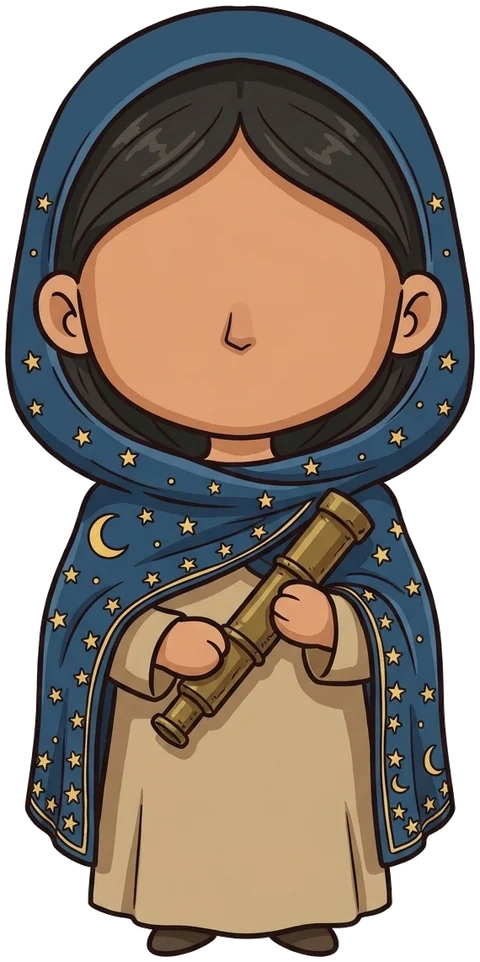
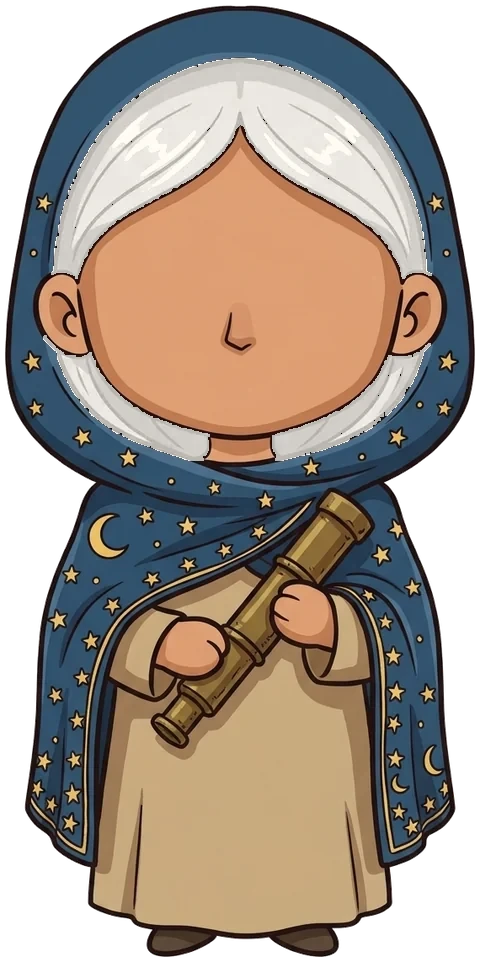
Four more paid wizards (קוסם הלילה, קוסמת היער, the little wizard pair), the magician redrawn as a desert wizard, the astronomer's hair chosen by the person (white by default); staff glow and spark moves; her night glow without the neck seam

Changed region(s): [[0.0938, 0.0624, 0.9062, 0.3119], [0.5625, 0.343, 0.9062, 0.499], [0.0938, 0.343, 0.4375, 0.499]]

diff --git a/public/assets/figure2d.js b/public/assets/figure2d.js
@@ -9,6 +9,7 @@
      f.special()        a special figure's own move (it also plays in happy()); f.sew('peg') sews a badge on the doll
      mount(…, { patches: ['peg', 'ember'] })   the doll wears the badges the person has
      mount(…, { skin: 'hanukkah' })            a skin, when the figure lists it in skins: [{ id, name, free?, season? }]
+     mount(…, { hair: '#8a5a3a' }), f.setHair(c)  a figure with a hair layer (the astronomer): list() gives hair: [{ color, name }]
      f.destroy()
      Figure2D.list()  → the catalogue (id, name, kind, unlock?, season?)
 
@@ -43,15 +44,33 @@
     leonardo: { name: 'לאונרדו דה וינצ׳י', kind: 'person', tier: 'paid', paid: true, hideFor: [], neck: 0.5, pivot: [0.52, 0.48], eyes: [[0.41, 0.335], [0.63, 0.335]], eyeR: 0.04, mouth: [0.52, 0.465], mouthW: 0.06, cheek: null, sway: 0.35 },
     cleopatra: { name: 'קליאופטרה', kind: 'person', tier: 'paid', paid: true, hideFor: [], neck: 0.44, pivot: [0.52, 0.42], eyes: [[0.42, 0.3], [0.62, 0.3]], eyeR: 0.042, mouth: [0.52, 0.39], mouthW: 0.07, cheek: '#d98a7a', sway: 0.7 },
     // the special ones (paid, the owner's choice 2026-11-13): each has its own move – special() – which also plays when it is glad
-    magician: { name: 'הקוסם מהשוק', kind: 'special', tier: 'paid', paid: true, hideFor: [], special: 'dove', trickFrom: [0.47, 0.06],
-      neck: 0.58, pivot: [0.49, 0.56], eyes: [[0.38, 0.38], [0.6, 0.38]], eyeR: 0.044, mouth: [0.49, 0.525], mouthW: 0.07, cheek: '#e8a08a', sway: 0.6 },
+    // the magician, redrawn 2026-11-13 after the owner's picture: a kind old wizard of the desert, a white turban and beard
+    magician: { name: 'הקוסם מהשוק', kind: 'special', tier: 'paid', paid: true, hideFor: [], special: 'dove', trickFrom: [0.43, 0.05],
+      glowAt: [0.935, 0.41], glowColor: '#7fb4ff',
+      neck: 0.47, pivot: [0.45, 0.45], eyes: [[0.33, 0.275], [0.53, 0.275]], eyeR: 0.04, mouth: [0.42, 0.44], mouthW: 0.06, cheek: '#c97a5e', sway: 0.35 },
     astronomer: { name: 'האסטרונומית', kind: 'special', tier: 'paid', paid: true, hideFor: [], special: 'stars',
       stars: [[0.2, 0.55], [0.27, 0.66], [0.17, 0.74], [0.25, 0.83], [0.79, 0.55], [0.74, 0.64], [0.83, 0.72], [0.77, 0.82], [0.32, 0.5], [0.68, 0.5],
         [0.14, 0.62], [0.86, 0.63], [0.21, 0.9], [0.8, 0.9], [0.3, 0.6], [0.7, 0.71], [0.12, 0.84], [0.88, 0.8], [0.35, 0.86], [0.66, 0.86]],
+      // her hair: its own layer (hair.webp), white by default and tinted to the colour a person picks (the owner, 2026-11-13)
+      hair: { default: '#ffffff', colors: [['#ffffff', 'לבן'], ['#c9ccd2', 'כסוף'], ['#4a4440', 'שחור'], ['#8a5a3a', 'חום'], ['#b0532e', 'ערמוני'], ['#d9743a', "ג'ינג'י"], ['#e8c27a', 'בלונד']] },
       neck: 0.45, pivot: [0.49, 0.43], eyes: [[0.41, 0.315], [0.58, 0.315]], eyeR: 0.038, mouth: [0.49, 0.4], mouthW: 0.065, cheek: '#e89a86', sway: 0.6 },
     doll: { name: 'בובת הטלאים', kind: 'special', tier: 'paid', paid: true, hideFor: [], special: 'patches',
       slots: [[0.4, 0.585, 0.082], [0.38, 0.725, 0.082], [0.645, 0.725, 0.082], [0.17, 0.665, 0.066], [0.87, 0.665, 0.066], [0.4, 0.857, 0.06], [0.63, 0.857, 0.06], [0.515, 0.808, 0.058]],
       neck: 0.47, pivot: [0.52, 0.45], eyes: [[0.43, 0.3], [0.61, 0.3]], eyeR: 0.05, mouth: [0.52, 0.385], mouthW: 0.09, cheek: '#ea9a86', sway: 0.8 },
+    // four more wizards (paid, the owner's choice 2026-11-13, after the owner's pictures): a spark from the staff when glad, a soft glow
+    nightwizard: { name: 'קוסם הלילה', kind: 'special', tier: 'paid', paid: true, hideFor: [], special: 'spark', sparkFrom: [0.885, 0.125], sparkColor: '#f6e7b0',
+      glowAt: [0.885, 0.125], glowColor: '#fff3c4',
+      neck: 0.37, pivot: [0.48, 0.35], eyes: [[0.405, 0.205], [0.56, 0.205]], eyeR: 0.034, mouth: [0.48, 0.305], mouthW: 0.055, cheek: null, sway: 0.5 },
+    forestwitch: { name: 'קוסמת היער', kind: 'special', tier: 'paid', paid: true, hideFor: [], special: 'spark', sparkFrom: [0.12, 0.47], sparkColor: '#c49bff',
+      glowAt: [0.12, 0.47], glowColor: '#b98cff',
+      neck: 0.6, pivot: [0.5, 0.58], eyes: [[0.41, 0.425], [0.59, 0.425]], eyeR: 0.044, mouth: [0.5, 0.51], mouthW: 0.07, cheek: '#ec9c8c', sway: 0.5 },
+    // the little pair: the hat hides their eyes (no eyes drawn); a mouth shows only while they talk
+    littlewizard: { name: 'הקוסם הקטן', kind: 'special', tier: 'paid', paid: true, hideFor: [], special: 'spark', sparkFrom: [0.115, 0.445], sparkColor: '#ffd25a',
+      glowAt: [0.115, 0.445], glowColor: '#ffd25a',
+      neck: 0.56, pivot: [0.51, 0.54], eyes: [], eyeR: 0.04, mouth: [0.51, 0.475], mouthW: 0.06, mouthQuiet: true, cheek: null, sway: 0.3 },
+    littlewitch: { name: 'הקוסמת הקטנה', kind: 'special', tier: 'paid', paid: true, hideFor: [], special: 'spark', sparkFrom: [0.12, 0.34], sparkColor: '#ffd25a',
+      glowAt: [0.12, 0.34], glowColor: '#ffd25a',
+      neck: 0.57, pivot: [0.49, 0.55], eyes: [], eyeR: 0.04, mouth: [0.485, 0.505], mouthW: 0.055, cheek: null, sway: 0.35 },
     dracula: { name: 'דרקולה', kind: 'person', tier: 'paid', paid: true, hideFor: [], tags: ['horror'], neck: 0.52, pivot: [0.51, 0.5], eyes: [[0.405, 0.29], [0.62, 0.29]], eyeR: 0.04, mouth: [0.51, 0.455], mouthW: 0.06, cheek: null, eyeColor: '#3a1c1c', sway: 0.35 },
   };
   const reduce = () => (window.H?.reducedMotion ? H.reducedMotion() : matchMedia('(prefers-reduced-motion: reduce)').matches);
@@ -89,6 +108,27 @@
     for (const [layer, clip] of [[body, `inset(${(cfg.neck * 100 - 1.5).toFixed(2)}% 0 0 0)`], [head, `inset(0 0 ${((1 - cfg.neck) * 100 - 1.5).toFixed(2)}% 0)`]]) {
       const i = img.cloneNode(); i.alt = ''; i.draggable = false; i.className = 'f2-pic'; i.style.clipPath = clip;
       layer.append(i);
+    }
+    // a figure with its own hair layer: the hair drawn again on top, tinted (multiply keeps its shading; white leaves it as drawn)
+    let hairPic = null; const hairCans = [];
+    const tintHair = (c) => {
+      if (!hairPic) return;
+      for (const cv of hairCans) {
+        const x = cv.getContext('2d'); x.globalCompositeOperation = 'source-over'; x.clearRect(0, 0, cv.width, cv.height); x.drawImage(hairPic, 0, 0);
+        if (c && !/^#?f{3}(f{3})?$/i.test(c)) { x.globalCompositeOperation = 'multiply'; x.fillStyle = c; x.fillRect(0, 0, cv.width, cv.height); x.globalCompositeOperation = 'destination-in'; x.drawImage(hairPic, 0, 0); }
+      }
+    };
+    if (cfg.hair) {
+      const h = new Image(); h.src = `${BASE}${cfg.id}/hair.webp`;
+      await new Promise((ok) => { h.onload = h.onerror = () => ok(); setTimeout(ok, 5000); });
+      if (h.naturalWidth) {
+        hairPic = h;
+        for (const layer of [body, head]) {
+          const cv = document.createElement('canvas'); cv.width = h.naturalWidth; cv.height = h.naturalHeight; cv.className = 'f2-pic f2-hair';
+          cv.style.clipPath = layer.firstChild.style.clipPath; layer.append(cv); hairCans.push(cv);
+        }
+        tintHair(opts.hair || cfg.hair.default);
+      }
     }
     head.style.transformOrigin = `${cfg.pivot[0] * 100}% ${cfg.pivot[1] * 100}%`;
     // the face: vector eyes, brows and mouth, inside the head so they move with it
@@ -132,6 +172,7 @@
       p.append(im); body.append(p); patches.push(badge); return true;
     };
     if (cfg.special === 'patches') (opts.patches || []).forEach((b) => sew(b, false));
+    if (cfg.glowAt) { const g = document.createElement('i'); g.className = 'f2-glow'; g.style.cssText = `left:${cfg.glowAt[0] * 100}%;top:${cfg.glowAt[1] * 100}%;--c:${cfg.glowColor || '#ffd25a'}`; fx.append(g); }
     box.append(fx);
     host.append(box);
 
@@ -144,6 +185,7 @@
         ? `M ${x0} ${y} Q ${mx * W} ${y + curve} ${x1} ${y}`
         : `M ${x0} ${y} Q ${mx * W} ${y + curve * 0.4} ${x1} ${y} Q ${mx * W} ${y + curve + open * 1.6} ${x0} ${y} Z`);
       mouth.setAttribute('fill', o < 0.04 ? 'none' : (cfg.mouthFill || '#7a2a22'));
+      if (cfg.mouthQuiet) mouth.style.opacity = o < 0.04 ? '0' : '1';   // behind a beard or under a hat: seen only while talking
     };
     drawMouth();
 
@@ -199,10 +241,10 @@
     // its own move: the magician's dove, a shooting star over the astronomer, the doll's patches shining
     function special() {
       if (still()) return;
-      const sparks = (n, x, y) => {
+      const sparks = (n, x, y, c) => {
         for (let i = 0; i < n; i++) {
           const k = document.createElement('i'); k.className = 'f2-spark';
-          k.style.cssText = `left:${x * 100}%;top:${y * 100}%;--dx:${(Math.cos(i / n * 6.283) * 34).toFixed(0)}px;--dy:${(Math.sin(i / n * 6.283) * 34 - 10).toFixed(0)}px;--delay:${i * 40}ms`;
+          k.style.cssText = `left:${x * 100}%;top:${y * 100}%;--dx:${(Math.cos(i / n * 6.283) * 34).toFixed(0)}px;--dy:${(Math.sin(i / n * 6.283) * 34 - 10).toFixed(0)}px;--delay:${i * 40}ms${c ? ';--c:' + c : ''}`;
           fx.append(k); setTimeout(() => k.remove(), 1200);
         }
       };
@@ -217,6 +259,9 @@
       } else if (cfg.special === 'stars') {
         const k = document.createElement('i'); k.className = 'f2-shoot'; fx.append(k); setTimeout(() => k.remove(), 1300);
         box.classList.add('starlit'); clearTimeout(special.t); special.t = setTimeout(() => box.classList.remove('starlit'), 2600);
+      } else if (cfg.special === 'spark') {
+        const [x, y] = cfg.sparkFrom; sparks(12, x, y, cfg.sparkColor);
+        box.classList.add('sparking'); clearTimeout(special.t); special.t = setTimeout(() => box.classList.remove('sparking'), 1200);
       } else if (cfg.special === 'patches') {
         box.classList.add('proud'); clearTimeout(special.t); special.t = setTimeout(() => box.classList.remove('proud'), 1400);
       }
@@ -236,12 +281,14 @@
       happy, special,
       /** the doll: sew a newly earned badge on (it stitches itself in); false when there is no room left */
       sew(badge) { return sew(badge, true); },
+      /** a figure with its own hair layer (cfg.hair): tint it, e.g. f.setHair('#8a5a3a'); white or nothing = as drawn */
+      setHair(c) { tintHair(c || cfg.hair?.default); },
       think(on) { mood = on ? 'think' : 'idle'; box.classList.toggle('thinking', !!on); },
       sleep(on) { mood = on ? 'sleep' : 'idle'; box.classList.toggle('sleeping', !!on); },
       destroy() { stop(); io.disconnect(); document.removeEventListener('visibilitychange', vis); removeEventListener('pointermove', onMove); box.remove(); },
     };
   }
-  const list = () => Object.entries(FIGURES).map(([id, f]) => ({ id, name: f.name, kind: f.kind, tier: f.tier || 'free', paid: !!f.paid, hideFor: f.hideFor || [], tags: f.tags || [], unlock: f.unlock || null, season: f.season || null, skins: f.skins || [] }));
+  const list = () => Object.entries(FIGURES).map(([id, f]) => ({ id, name: f.name, kind: f.kind, tier: f.tier || 'free', paid: !!f.paid, hideFor: f.hideFor || [], tags: f.tags || [], unlock: f.unlock || null, season: f.season || null, skins: f.skins || [], hair: f.hair ? f.hair.colors.map(([color, name]) => ({ color, name })) : null, hairDefault: f.hair?.default || null }));
   // the default companion for every family but the owner's (who has Ibn Ezra): the owner's choice, 2026-11-13
   const DEFAULT = 'fennec';
   window.Figure2D = { mount, list, FIGURES, DEFAULT };

diff --git a/public/assets/figure2d.css b/public/assets/figure2d.css
@@ -26,10 +26,21 @@
 /* ---------- the special ones ---------- */
 .f2-fx { position: absolute; inset: 0; pointer-events: none; overflow: visible; }
 /* the magician: sparks and a dove from the hat */
-.f2-spark { position: absolute; inline-size: 6px; block-size: 6px; margin: -3px; border-radius: 50%; background: #f2c14e; box-shadow: 0 0 6px #ffd76a;
+.f2-spark { position: absolute; inline-size: 6px; block-size: 6px; margin: -3px; border-radius: 50%; background: var(--c, #f2c14e); box-shadow: 0 0 6px var(--c, #ffd76a);
   animation: f2-spark 1s var(--delay, 0ms) cubic-bezier(.2, .8, .3, 1) both; }
 @keyframes f2-spark { from { transform: translate(0, 0) scale(.4); opacity: 1; } to { transform: translate(var(--dx), var(--dy)) scale(1); opacity: 0; } }
 .f2-dove { position: absolute; inline-size: 46%; filter: drop-shadow(0 4px 4px rgba(30, 20, 10, .2)); }
+/* the wizards: a soft glow at the staff's light, breathing slowly; brighter when they spark */
+.f2-glow { position: absolute; inline-size: 22%; aspect-ratio: 1; translate: -50% -50%; border-radius: 50%; pointer-events: none;
+  background: radial-gradient(circle, color-mix(in srgb, var(--c) 55%, transparent), transparent 66%); opacity: .45;
+  animation: f2-glow 3.2s ease-in-out infinite; transition: opacity .3s; }
+@keyframes f2-glow { 50% { scale: 1.18; opacity: .85; } }
+/* at night the light really shines */
+:root[data-theme="dark"] .f2-glow { mix-blend-mode: screen; opacity: .7; }
+@media (prefers-color-scheme: dark) { :root:not([data-theme="light"]) .f2-glow { mix-blend-mode: screen; opacity: .7; } }
+.f2.sparking .f2-glow { opacity: 1; scale: 1.5; animation: none; }
+.f2.still .f2-glow { animation: none; }
+@media (prefers-reduced-motion: reduce) { .f2-glow { animation: none; } }
 /* the astronomer: the stars of her shawl wake at night and twinkle; a shooting star when she is glad */
 .f2-stars { position: absolute; inset: 0; pointer-events: none; opacity: 0; transition: opacity 1.2s; }
 .f2-stars i { position: absolute; inline-size: 3.2%; aspect-ratio: 1; margin: -1.6%; border-radius: 50%;
@@ -37,8 +48,8 @@
 @keyframes f2-tw { 50% { transform: scale(.45); opacity: .45; } }
 :root[data-theme="dark"] .f2-stars, .f2.starlit .f2-stars { opacity: 1; }
 @media (prefers-color-scheme: dark) { :root:not([data-theme="light"]) .f2-stars { opacity: 1; } }
-:root[data-theme="dark"] .f2:has(.f2-stars) .f2-body .f2-pic { filter: drop-shadow(0 0 14px rgba(120, 150, 255, .35)); }
-@media (prefers-color-scheme: dark) { :root:not([data-theme="light"]) .f2:has(.f2-stars) .f2-body .f2-pic { filter: drop-shadow(0 0 14px rgba(120, 150, 255, .35)); } }
+:root[data-theme="dark"] .f2:has(.f2-stars) { filter: drop-shadow(0 0 14px rgba(120, 150, 255, .35)); }
+@media (prefers-color-scheme: dark) { :root:not([data-theme="light"]) .f2:has(.f2-stars) { filter: drop-shadow(0 0 14px rgba(120, 150, 255, .35)); } }
 .f2-shoot { position: absolute; inset-block-start: -4%; inset-inline-end: -10%; inline-size: 30%; block-size: 2px; border-radius: 2px; transform: rotate(-28deg);
   background: linear-gradient(90deg, transparent, #fff6d0); animation: f2-shoot 1.1s ease-in both; }
 @keyframes f2-shoot { from { translate: 0 0; opacity: 0; } 20% { opacity: 1; } to { translate: -140% 70%; opacity: 0; } }

diff --git a/docs/design/figures-2d.md b/docs/design/figures-2d.md
@@ -59,9 +59,23 @@ is to be checked by business before anything around him is sold; he is free in t
 
 | id | name | its move |
 |---|---|---|
-| magician | הקוסם מהשוק (a man) | a dove (with an olive sprig) flies out of his tarboosh in a burst of sparks |
-| astronomer | האסטרונומית (a woman) | at night the stars of her shawl wake and twinkle, and she glows faintly; when glad, a shooting star |
+| magician | הקוסם מהשוק (a man) | redrawn 2026-11-13 after the owner's picture: a kind old desert wizard, white turban and beard, a blue light over his staff; a dove (with an olive sprig) flies out of his turban in a burst of sparks |
+| astronomer | האסטרונומית (a woman) | at night the stars of her shawl wake and twinkle, and she glows faintly; when glad, a shooting star. **Her hair is chosen by the person**, white by default (below) |
 | doll | בובת הטלאים (neither) | wears the person's own badges, sewn on: `mount(el, 'doll', { patches: earnedBadgeIds })` (up to 8, newest last); `f.sew(id)` stitches a newly earned one in |
+| nightwizard | קוסם הלילה (a man) | a young wizard, a black cloak with golden flowers, a crescent staff with a pearl that glows; when glad, pale gold sparks from the pearl |
+| forestwitch | קוסמת היער (a woman) | a young wizard of the forest, curly hair, a purple hat, a crystal staff and an old book; when glad, violet sparks from the crystals |
+| littlewizard | הקוסם הקטן (a man) | short and round, a big blue starry hat hiding his eyes, a white beard; a golden orb that glows; a mouth shows only while he talks |
+| littlewitch | הקוסמת הקטנה (a woman) | his counterpart: the same hat over her eyes, silver braids, rosy cheeks; a golden orb that glows; a mouth only while she talks |
+
+The four wizards were added at the owner's word (2026-11-13), after the owner's pictures, toned for everyone: moons and
+stars instead of a pentagram and runes, a crescent instead of snakes, a closed robe. Any figure may glow where its
+light is (`glowAt`, `glowColor`) and spark from there (`special: 'spark'`, `sparkFrom`, `sparkColor`); a figure with
+`eyes: []` has none drawn (the hat hides them), and `mouthQuiet` shows the mouth only while it talks.
+
+**The astronomer's hair:** her hair is its own layer (`/figures/2d/astronomer/hair.webp`), tinted with multiply so its
+shading stays. `Figure2D.list()` gives `hair: [{ color, name }]` (לבן, כסוף, שחור, חום, ערמוני, ג'ינג'י, בלונד) and
+`hairDefault: '#ffffff'`; mount with `{ hair: color }` and change it live with `f.setHair(color)`. For ai-features: a
+row of colour swatches under the figure when she is chosen, saved per person (e.g. `H.prefs('daemon').hair`).
 
 For ai-features: show them as their own group ("מיוחדות"), paid; for the doll pass the person's earned badge ids
 (`D.badges.earned` in goals) as `patches`, and call `f.sew(id)` when a badge is earned while it is on screen.

diff --git a/docs/decisions.md b/docs/decisions.md
@@ -11,6 +11,20 @@ Format:
 What was decided, why, and what other areas must do. Status: proposed | accepted | done.
 ```
 
+## 2026-11-14 – Four more paid wizards, the magician redrawn, the astronomer's hair chosen (design → master, ai-features, business)
+
+The owner's word (2026-11-13), after the owner's pictures: the doll and the astronomer approved; **the magician redrawn**
+as a kind old desert wizard (white turban and beard; same id `magician`, same name and dove); **four new paid figures**
+in Figure2D, `kind: 'special'`, `tier: 'paid'`: `nightwizard` קוסם הלילה, `forestwitch` קוסמת היער, `littlewizard`
+הקוסם הקטן, `littlewitch` הקוסמת הקטנה (their staffs glow; when glad, sparks). **The astronomer's hair** is chosen by
+the person, white by default: `Figure2D.list()` gives `hair` and `hairDefault`, `mount(el, 'astronomer', { hair })`,
+`f.setHair(color)`. Details in `docs/design/figures-2d.md`.
+- ai-features: the four in the "מיוחדות" group; under the astronomer, a row of hair swatches, saved per person
+  (e.g. `H.prefs('daemon').hair`).
+- business and the master: the paid list now has 7 special figures (magician, astronomer, doll and the four wizards)
+  besides the four paid people; prices are business's.
+Status: done (design).
+
 ## 2026-11-14 – The founders page and the purchase page: their look (design → business, ai-features, master)
 
 At business's request (`docs/business/founders.md` §4–5, `docs/business/monetization.md` §4.3). CSS only, plus two

diff --git a/figures/art/library/companions/README.md b/figures/art/library/companions/README.md
@@ -41,3 +41,10 @@ A cute small collectible figure for a family app: Isaac Newton, the English scie
 ## The special ones (paid; the owner's choice, 2026-11-13)
 
 The magician (and his dove), the astronomer, the patchwork doll – 4 × $0.069. Each has its own move in Figure2D (`special()`, which also plays when it is glad): the magician lifts a dove out of his hat in a burst of sparks; the astronomer's shawl wakes with twinkling stars at night and a shooting star crosses when she is glad; the doll wears the person's own badges, sewn on, and stitches a new one in when it is earned. Prompts in `C:/Users/User/AppData/Local/Temp/claude/c428b42837d3f372/19117706-22e2-40a4-bdb5-1a2b2687b32f/scratchpad/special.mjs`.
+
+**2026-11-13, later.** The magician redrawn after the owner's picture (a desert wizard: white turban and beard, a blue robe;
+the market magician with the tarboosh is kept as `magician-market.webp`), and four more paid wizards after the owner's
+pictures: `nightwizard`, `forestwitch`, `littlewizard`, `littlewitch` – 5 × $0.069, each the first try. The astronomer's
+`public/figures/2d/astronomer/figure.webp` now has white hair baked in, and `hair.webp` beside it is the hair alone for
+tinting (made from this master by `hair.py` in the scratchpad: the dark grey hair inside the shawl lifted to white, the
+outlines kept, small specks dropped). This master still has her original dark hair.
